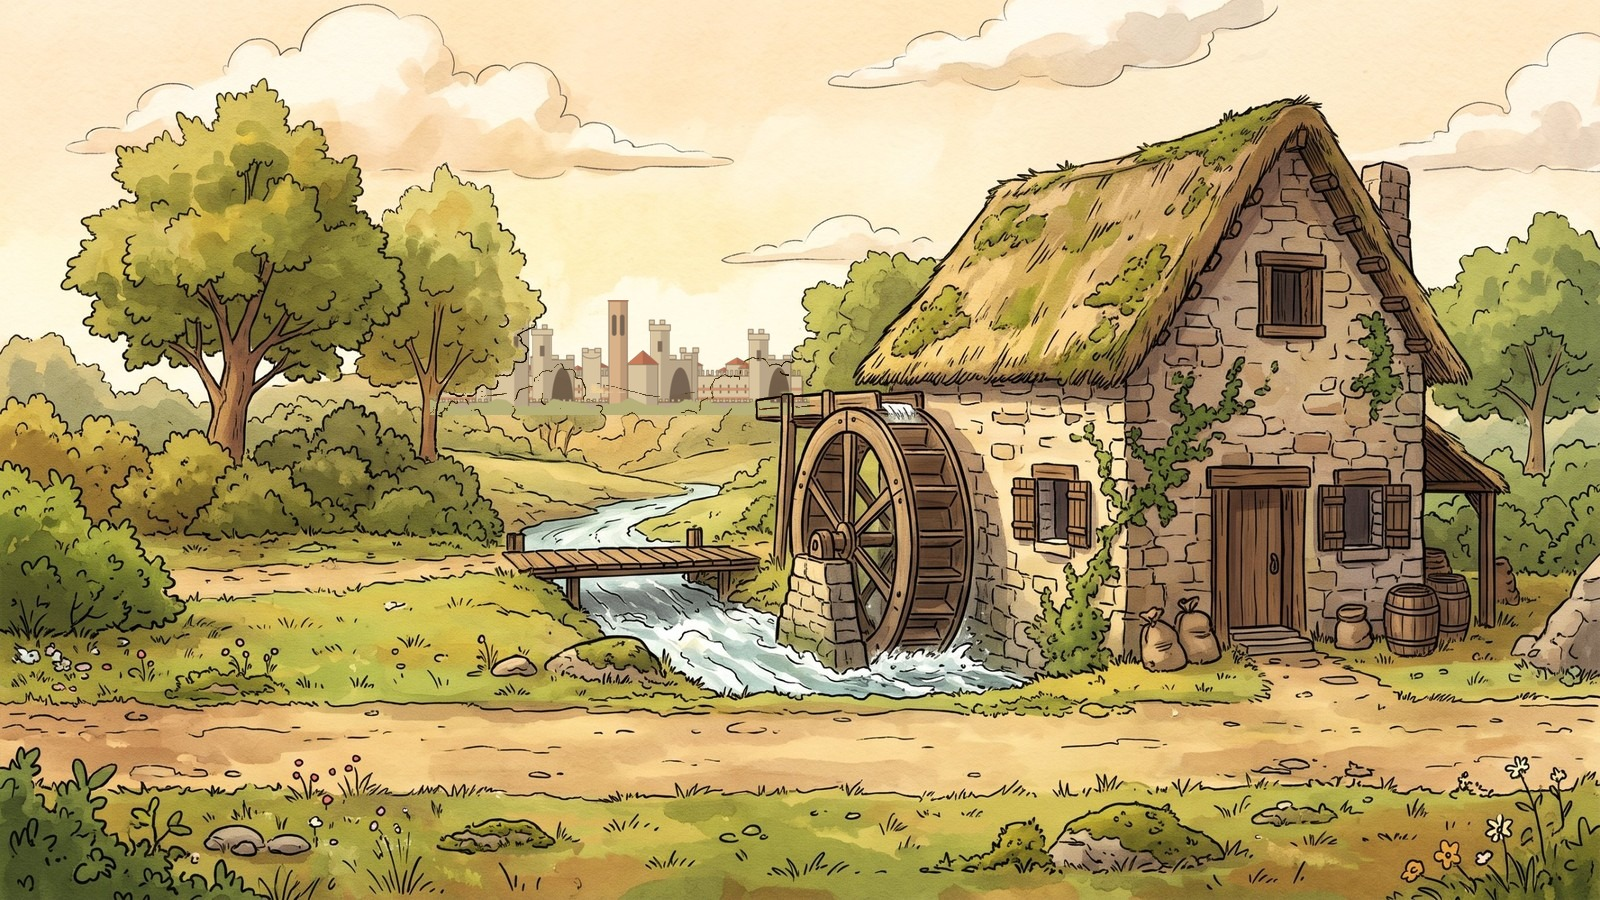
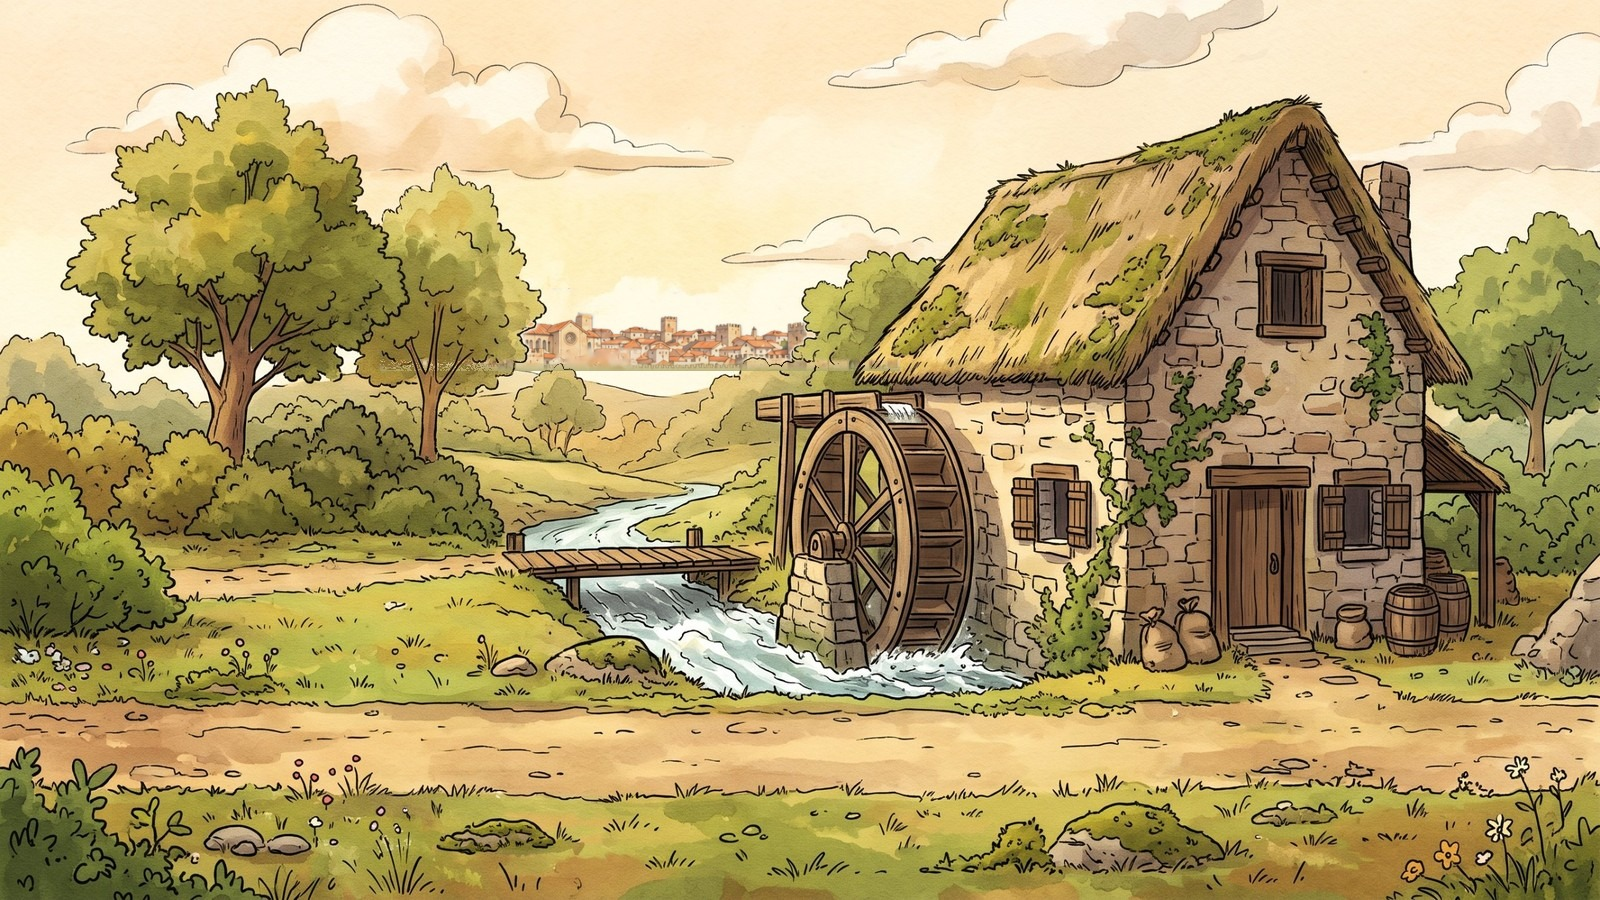
Talavera al fondo v3: la villa de la portada de César pegada en puente y aceña
Claude-Session: https://claude.ai/code/session_01SHSGzxNeL5aLd7zb7HPUbE

Changed region(s): [[0.25, 0.3111, 0.5625, 0.4667]]

diff --git a/production/G12/tools/talavera_desde_portada.py b/production/G12/tools/talavera_desde_portada.py
@@ -1,0 +1,41 @@
+"""Talavera de la portada de César (art/portada/portada_1248_elvira_original.jpg) recortada y pegada en el horizonte de puente y aceña.
+Uso: python talavera_desde_portada.py -> art/escenarios/nuevos/{puente,acena}_talavera.jpg"""
+import numpy as np, cv2
+from PIL import Image, ImageFilter
+ROOT='/home/claude/extra-o-en-castilla/'
+cov=cv2.imread(ROOT+'art/portada/portada_1248_elvira_original.jpg')   # BGR
+X0,Y0,X1,Y1=430,190,1130,302
+crop=cov[Y0:Y1,X0:X1].copy(); h,w=crop.shape[:2]
+b,g,r=[crop[...,i].astype(int) for i in range(3)]
+# quitar el rasgo rojo del título y el pelo de los personajes (inpaint)
+yy=np.arange(h)[:,None]; xx=np.arange(w)[None,:]
+redish=(r>b+55)&(g<175)
+reds=(redish&(yy<36)&(xx>205)&(xx<575))|(redish&(yy<9))|(((r+g+b)<420)&(yy<8))   # trazo del título y letras que asoman
+hair=(xx>235)&(xx<345)&(yy>80)&(r<170)&(b<120)   # pelo del extraño
+m=cv2.dilate((reds|hair).astype('uint8')*255,np.ones((5,5),np.uint8))
+crop=cv2.inpaint(crop,m,5,cv2.INPAINT_TELEA)
+rgb=cv2.cvtColor(crop,cv2.COLOR_BGR2RGB)
+r,g,b=[rgb[...,i].astype(int) for i in range(3)]
+sky=((b>=r-6)&(r+g+b>470))|((b>r+4)&(b>g-2))   # azul/blanco del cielo
+sky=cv2.morphologyEx(sky.astype('uint8'),cv2.MORPH_OPEN,np.ones((2,2),np.uint8)).astype(bool)
+alpha=(~sky).astype(float)
+alpha=cv2.GaussianBlur(alpha,(0,0),0.8)
+fade=np.clip((h-np.arange(h))/14.0,0,1)[:,None]; alpha=alpha*fade   # base difuminada hacia la loma
+def paint(name,x,y,W,haze,hill,sub=0.0):
+    bg=np.array(Image.open(ROOT+'art/escenarios/nuevos/%s.jpg'%name).convert('RGB')).astype(float)
+    sc=W/w; H=int(h*sc)
+    t=cv2.resize(rgb,(W,H),interpolation=cv2.INTER_AREA).astype(float); a=cv2.resize(alpha,(W,H),interpolation=cv2.INTER_AREA)
+    t=t*(1-0.18)+np.array(haze,float)*0.18       # perspectiva aérea
+    t=t*0.96                                        # un punto más cálido/oscuro para asentarlo en la acuarela
+    reg=bg[y:y+H,x:x+W]; lum=reg.mean(2); mx=reg.max(2); mn=reg.min(2); sat=(mx-mn)/(mx+1)
+    allow=((lum>150)&(sat<0.45)).astype('uint8')*255
+    allow=cv2.GaussianBlur(cv2.erode(allow,np.ones((3,3),np.uint8)),(0,0),1.2)/255.0
+    # loma bajo la villa
+    ground=np.zeros((H,W)); ground[int(H*0.88):,:]=1; ground=cv2.GaussianBlur(ground,(0,0),2)
+    allow=np.maximum(allow,ground*(lum>105))
+    out=reg*(1-ground[...,None]*allow[...,None]*0.8)+np.array(hill,float)*ground[...,None]*allow[...,None]*0.8
+    aa=(a*allow)[...,None]; out=out*(1-aa)+t*aa
+    bg[y:y+H,x:x+W]=out
+    Image.fromarray(bg.astype('uint8')).save(ROOT+'art/escenarios/nuevos/%s_talavera.jpg'%name,quality=92)
+paint('puente',690,232,420,(240,226,196),(176,170,112))
+paint('acena',380,288,520,(244,226,190),(170,168,108))

diff --git a/docs/TALAVERA_1248_FONDO.md b/docs/TALAVERA_1248_FONDO.md
@@ -1,4 +1,5 @@
 # Talavera de 1248 al fondo (puente y aceña)
+**v3 (7 nov):** la v2 dibujada con código no parecía Talavera. Ahora la villa es la de la PORTADA de César (la ciudad con campanario de Santa María, tejados, murallas y torres), recortada de `art/portada/portada_1248_elvira_original.jpg` (sin el trazo del título ni el pelo de los personajes) y pegada con bruma en el horizonte: `production/G12/tools/talavera_desde_portada.py`. La v2 (procedural, con albarranas dibujadas) sigue en `talavera_fondo.py` por si interesa.
 **Muralla (v2, 7 nov):** según el tríptico de la muralla de El Salvador (La Voz del Tajo) y mycityhunt: lienzo de mampostería/sillería de granito con tongadas de mortero y ladrillo (tono gris-ocre), torres cuadradas, semicirculares y **albarranas** (exentas, proyectadas al exterior y unidas al lienzo por un gran arco; en El Salvador una apoya en torre ochavada; se citan 17, 8 conservadas), **barbacana** (antemuro bajo almenado) y recinto de La Villa (s. IX-X). Aviso de rigor: las fuentes discrepan en la fecha de las albarranas (s. XIII frente a s. XIV); se toman como s. XIII/de época, es hipótesis artística. Fuentes: https://www.lavozdeltajo.com/adjuntos/71435/Triptico_muralla_El_Salvador_Talavera.pdf y https://www.mycityhunt.co.uk/cities/talavera-de-la-reina-es-10856/poi/walls-of-talavera-de-la-reina-38000
 Hecho (provisional, procedural): `art/escenarios/nuevos/puente_talavera.jpg` y `acena_talavera.jpg` (script `production/G12/tools/talavera_fondo.py`, capas sueltas en `production/G12/walkmaps/talavera_capa_*.png`). Villa en la lejanía con bruma: cerca almenada con torres, alcázar a la izquierda, campanario cuadrado de Santa María y casas de tejado rojo.
 
